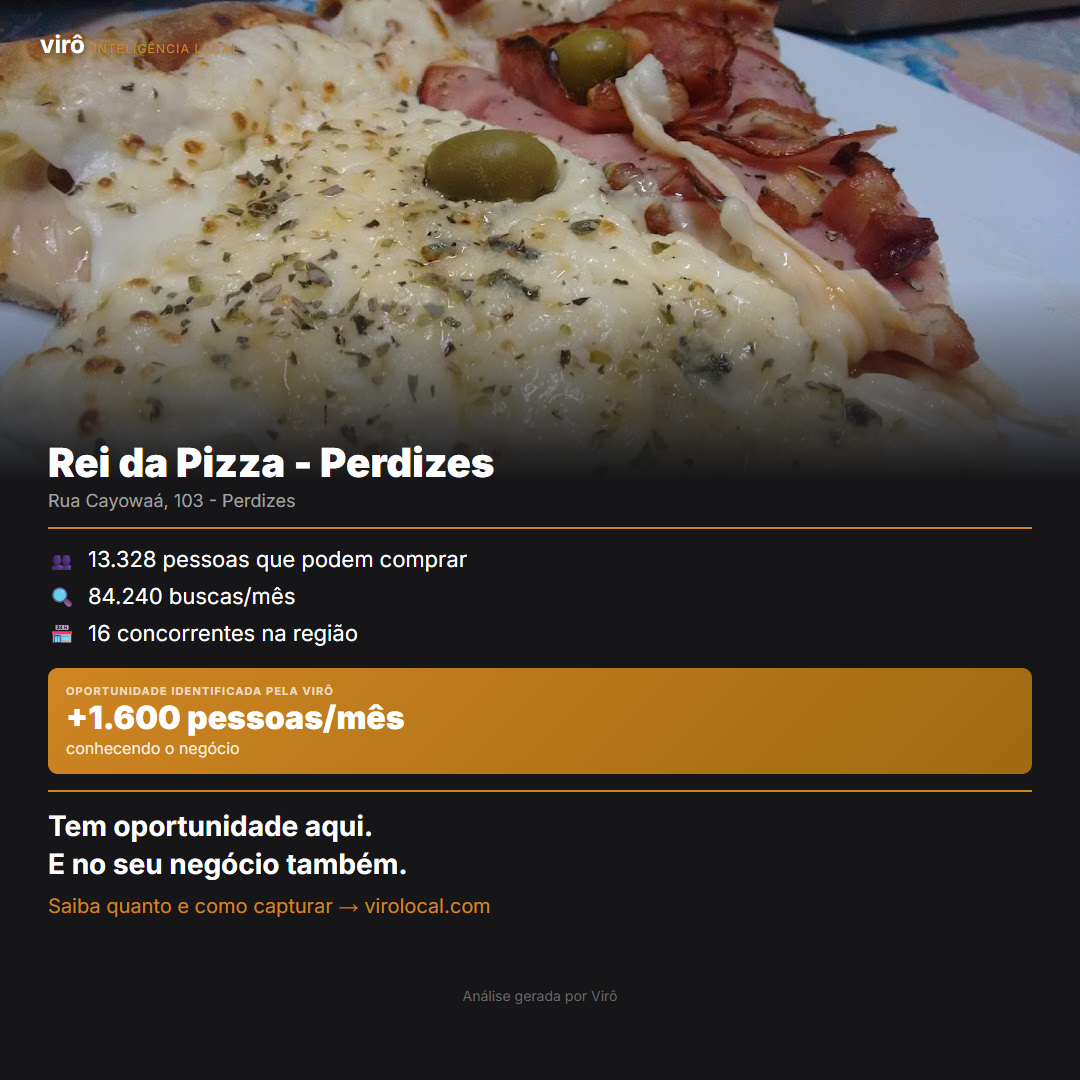
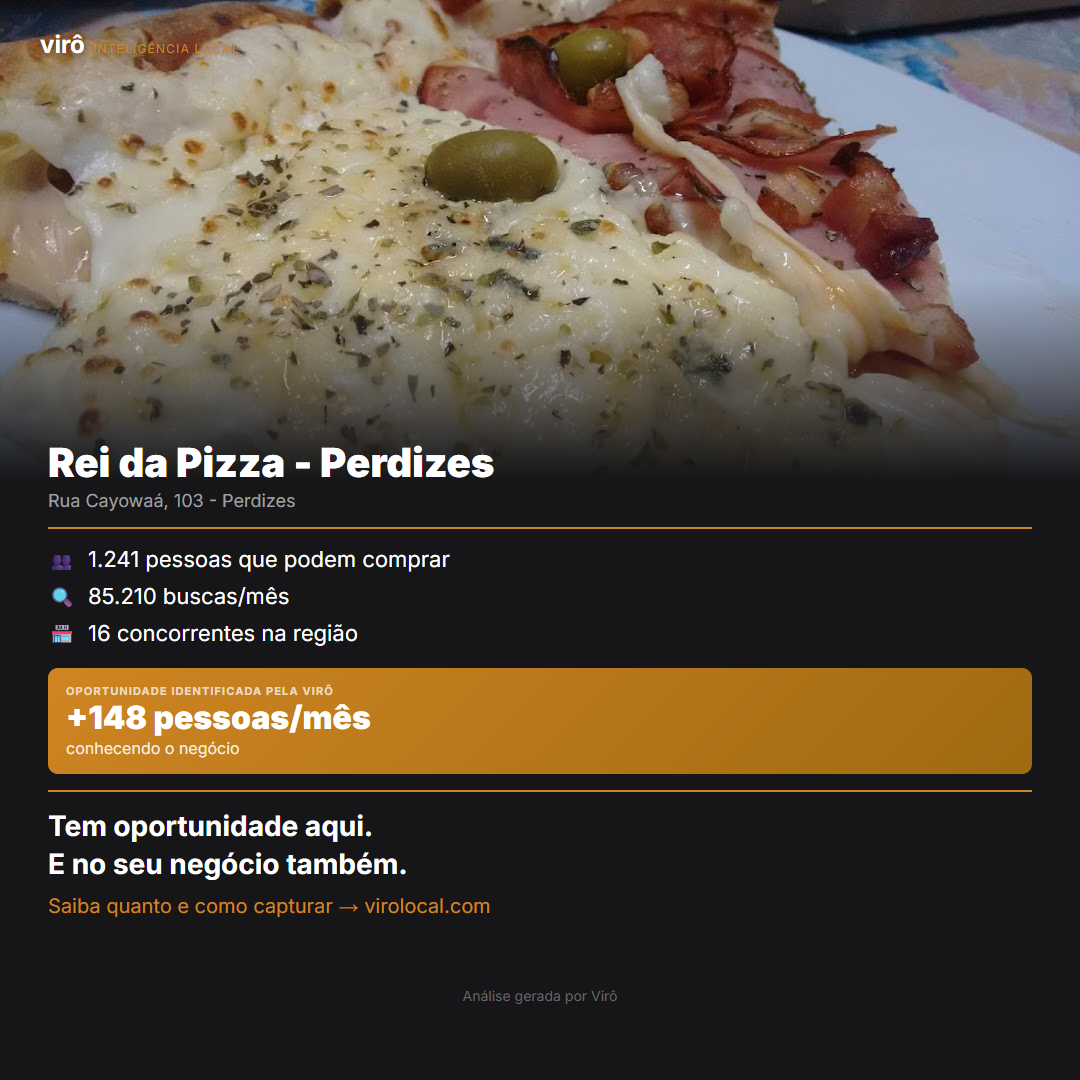
fix: card pipeline now matches production behavior (5 pizzaria SP)
- Revert WorldPop fix from previous commit: the new polygon+wpgppop call
  returned correct but very different population values (real density for
  Copacabana etc), which diverged 10-20x from what production shows for
  cached leads. User prefers card output to mirror the current production
  pipeline until a coordinated migration is done.
- Back to Point+radius with dataset=wpgp: the call returns HTTP 422 every
  time, the pipeline falls through to the ibge_area_prop fallback (same
  as prod). Numbers now line up with what new prod leads get.
- Trim the homepage carousel to 5 pizzaria SP cards as requested. The
  other 12 segment cards are deleted until we decide how/when to
  reintroduce them.

Changed region(s): [[0.0917, 0.4889, 0.4278, 0.5806], [0.0917, 0.6417, 0.3667, 0.7028]]

diff --git a/src/lib/pipeline/ibge.ts b/src/lib/pipeline/ibge.ts
@@ -449,58 +449,33 @@ async function getMunicipioInfo(city: string, state: string): Promise<MunicipioI
   };
 }
 
-// Gera um polígono circular (aproximação) a partir de lat/lng + raio em km.
-// WorldPop exige Polygon GeoJSON; Point+radius não é formato válido.
-function buildCirclePolygon(lat: number, lng: number, radiusKm: number, points = 32): number[][] {
-  const coords: number[][] = [];
-  const earthRadius = 6371;
-  const d = radiusKm / earthRadius;
-  const latRad = (lat * Math.PI) / 180;
-  const lngRad = (lng * Math.PI) / 180;
-  for (let i = 0; i <= points; i++) {
-    const bearing = (i / points) * 2 * Math.PI;
-    const newLat = Math.asin(
-      Math.sin(latRad) * Math.cos(d) + Math.cos(latRad) * Math.sin(d) * Math.cos(bearing),
-    );
-    const newLng =
-      lngRad +
-      Math.atan2(
-        Math.sin(bearing) * Math.sin(d) * Math.cos(latRad),
-        Math.cos(d) - Math.sin(latRad) * Math.sin(newLat),
-      );
-    coords.push([(newLng * 180) / Math.PI, (newLat * 180) / Math.PI]);
-  }
-  return coords;
-}
-
 async function fetchWorldPopRadius(lat: number, lng: number, raioKm: number): Promise<number | null> {
-  // WorldPop API: população dentro de polígono GeoJSON
+  // WorldPop API: população num raio circular em torno de lat/lng
   // Documentação: https://api.worldpop.org/v1/services/stats
   try {
-    const ring = buildCirclePolygon(lat, lng, raioKm);
     const geojson = JSON.stringify({
       type: "Feature",
-      properties: {},
       geometry: {
-        type: "Polygon",
-        coordinates: [ring], // WorldPop usa [lng, lat]
+        type: "Point",
+        coordinates: [lng, lat]  // WorldPop usa [lng, lat]
       },
+      properties: { radius: raioKm }
     });
 
-    const url = `https://api.worldpop.org/v1/services/stats?dataset=wpgppop&year=2020&geojson=${encodeURIComponent(geojson)}&runasync=false`;
-    const res = await fetch(url, { signal: AbortSignal.timeout(15000) });
+    const url = `https://api.worldpop.org/v1/services/stats?dataset=wpgp&year=2020&geojson=${encodeURIComponent(geojson)}&runasync=false`;
+    const res = await fetch(url, { signal: AbortSignal.timeout(10000) });
     if (!res.ok) {
       console.warn(`[WorldPop] HTTP ${res.status}`);
       return null;
     }
     const data = await res.json();
-    // Resposta síncrona: { status: "finished", data: { total_population: 12345.67 } }
+    // Resposta: { status: "200", data: { total_population: 12345.67 } }
     const pop = data?.data?.total_population;
     if (typeof pop === 'number' && pop > 0) {
       console.log(`[WorldPop] lat=${lat}, lng=${lng}, raio=${raioKm}km → pop=${Math.round(pop)}`);
       return Math.round(pop);
     }
-    console.warn('[WorldPop] Resposta sem total_population:', JSON.stringify(data).slice(0, 300));
+    console.warn('[WorldPop] Resposta sem total_population:', JSON.stringify(data).slice(0, 200));
     return null;
   } catch (err) {
     console.warn('[WorldPop] Erro:', (err as Error).message);

diff --git a/src/app/page.tsx b/src/app/page.tsx
@@ -602,26 +602,10 @@ export default function Home() {
           {[
             // Pizzaria — São Paulo
             "ChIJT_hKLcBZzpQR_DXAu2tj7fg",
-            "ChIJJ--IeftXzpQRvnflvmEVs88",
-            "ChIJ-zbGG_tXzpQRT467rAOz9-o",
             "ChIJafL6lbRXzpQR_uL1LS6YHqM",
-            "ChIJn59eeNRZzpQRzedhoxyWCZc",
-            // Clínica estética
-            "ChIJwblXdZLPyJQRYEU85ldSb2Q",
-            "ChIJp53le3p_mQAR6Uu_9xqGECA",
-            "ChIJJ7pmDVYDFgcRR-_S9ByNa64",
-            // Odontologia
-            "ChIJu5DAGfhLxwcRpmbVia4U45E",
-            "ChIJrTSUUl5pzpQRpHoFGRlaonc",
-            "ChIJk3RVzU_PyJQRWR_qBDwiZ8c",
-            // Academia/Studio
-            "ChIJ816cuHJ_mQARkjl5jJbqOPo",
-            "ChIJs8aVd5kbFgcRVkhYkcpJ02U",
-            "ChIJKYhQyBVPxwcRb4Pd0Oi9ilY",
-            // Salão/Barbearia
-            "ChIJxVBhN1xpzpQRrO8GfQ9yBas",
-            "ChIJV2E7cDTHyJQReAGb4F_J2uk",
-            "ChIJ-2Fjej_VmwARfNQz2hTpBzk",
+            "ChIJJ--IeftXzpQRvnflvmEVs88",
+            "ChIJZ-k7vfxXzpQRaDkvzVYxJNc",
+            "ChIJO-3dqidazpQR8grH25DryHA",
           ].map((id) => (
             <div key={id} style={{ flexShrink: 0, width: 280, scrollSnapAlign: "start" as const }}>
               <img
